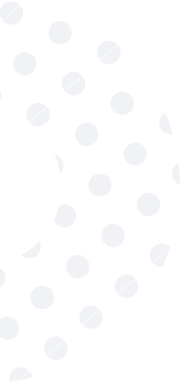
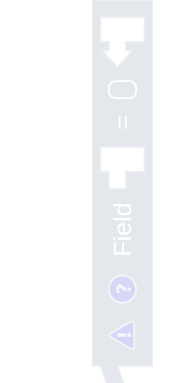
update index

Changed region(s): [[0.4972, 0.0, 0.8564, 1.0]]

diff --git a/index.html b/index.html
@@ -155,7 +155,7 @@
                             data-textAlign="['center','center','center','center']" data-paddingtop="[0,0,0,0]" data-paddingright="[0,0,0,0]"
                             data-paddingbottom="[0,0,0,0]" data-paddingleft="[0,0,0,0]"
                             style="z-index: 10; min-width: 556px; max-width: 556px; white-space: nowrap; font-size: 60px; line-height: 75px; font-weight: 300; letter-spacing: 0px;font-family: 'Montserrat', sans-serif;">
-                            Learn to program is a breeze.</div>
+                            MNL</div>
 
                         <!-- LAYER Text -->
                         <div class="tp-caption color-black" data-x="['center','center','center','center']" data-hoffset="['0','0','0','0']"
@@ -166,7 +166,7 @@
                             data-textAlign="['center','center','center','center']" data-paddingtop="[0,0,0,0]" data-paddingright="[0,0,0,0]"
                             data-paddingbottom="[0,0,0,0]" data-paddingleft="[0,0,0,0]"
                             style="z-index: 10; min-width: 556px; max-width: 556px; white-space: nowrap; font-weight: 700; letter-spacing: 0px;font-family: 'Montserrat', sans-serif;">
-                            <div id="js-rotating">Easy to Learn, Understandable, It's a Functional PL </div>
+                            <div id="js-rotating">Easy to Learn, Understandable, a Functional PL, Visual Language, Block-based </div>
                         </div>
 
                         <!-- LAYER Text -->
@@ -444,7 +444,8 @@
             <div class="row">
                 <div class="col-md-12">
                     <div class="main-title wow fadeIn" data-wow-delay="300ms">
-                        <h2>It is an <span class="color-soft-red">Easy-to-learn</span> and <span class="color-green">understandable</span>
+                        <h2>It is an <span class="color-soft-red">Easy-to-learn</span> and <span class="color-green">understandable
+                            </span><span class="color-yellow">block-based </span>
                             <span class="color-blue">functional
                                 programming language</span>.
                         </h2>
@@ -517,7 +518,6 @@
                         </div>
                     </div>
                 </div>
-                <div class="w-100 d-none d-lg-block d-xl-none"></div>
                 <div class="col-lg-6 col-xl-3 p-0 team-col2 mr-md-auto ml-md-0 mx-auto team-row2">
                     <div class="row">
                         <div class="col-md-12 order-md-0">
@@ -538,42 +538,48 @@
                     <div class="row">
                         <div class="col-md-12 order-md-0">
                             <div class="team-classic-content hvr-team2 soft-red">
-                                <h3 class="mb-3 text-capitalize color-soft-red">Typing Suggestion</h3>
-                                <h5 class="mb-3 text-capitalize color-black">Type system</h5>
-                                <p class="mt-3 mb-3 color-black">MNL will elegantly present a suggested term type in a color box,
-                                    thoughtfully aligned with its type constraints.</p>
+                                <h3 class="mb-3 text-capitalize color-soft-red">Beta Reduction</h3>
+                                <h5 class="mb-3 text-capitalize color-black">Program visualization</h5>
+                                <p class="mt-3 mb-3 color-black">Bringing beta reduction to life with a visual that highlights how
+                                    call-by-value and call-by-push-structure evaluation strategies unfold step by step.
+                                </p>
                                 <ul class="team-social">
-                                    <li class="d-inline-block"><a href="https://help.mnl-pl.org/type-suggestion.html" class="dark-bg-hvr"><i
+                                    <li class="d-inline-block"><a href="https://help.mnl-pl.org/program-visualization.html"
+                                            class="dark-bg-hvr"><i class="fa fa-arrow-right" aria-hidden="true"></i></a></li>
+                                </ul>
+                            </div>
+                        </div>
+                    </div>
+                </div>
+                <div class="w-100 d-none d-lg-block d-xl-none"></div>
+                <div class="col-lg-6 col-xl-3 p-0 team-col ml-md-auto mr-md-0 mx-auto team-row2">
+                    <div class="row">
+                        <div class="col-md-12 order-md-0">
+                            <div class="team-classic-content hvr-team green">
+                                <h3 class="mb-3 text-capitalize color-green">Type Inference</h3>
+                                <h5 class="mb-3 text-capitalize color-black">Type system</h5>
+                                <p class="mt-3 mb-3 color-black">Users do not need to declare the type explicitly! Let MNL do it for them
+                                    (implicit
+                                    typing).</p>
+                                <ul class="team-social">
+                                    <li class="d-inline-block"><a href="https://help.mnl-pl.org/type-inference.html" class="dark-bg-hvr"><i
                                                 class="fa fa-arrow-right" aria-hidden="true"></i></a></li>
                                 </ul>
                             </div>
                         </div>
                     </div>
                 </div>
-                <div class="col-lg-6 col-xl-3 p-0 team-col ml-md-auto mr-md-0 mx-auto team-row2">
-                    <div class="team-classic-content hvr-team green">
-                        <h3 class="mb-3 text-capitalize color-green">Type Inference</h3>
-                        <h5 class="mb-3 text-capitalize color-black">Type system</h5>
-                        <p class="mt-3 mb-3 color-black">Users do not need to declare the type explicitly! Let MNL do it for them (implicit
-                            typing).</p>
-                        <ul class="team-social">
-                            <li class="d-inline-block"><a href="https://help.mnl-pl.org/type-inference.html" class="dark-bg-hvr"><i
-                                        class="fa fa-arrow-right" aria-hidden="true"></i></a></li>
-                        </ul>
-                    </div>
-                </div>
                 <div class="col-lg-6 col-xl-3 p-0 team-col2 mr-md-auto ml-md-0 mx-auto team-row2">
                     <div class="row">
                         <div class="col-md-12 order-md-0">
                             <div class="team-classic-content hvr-team2 blue">
-                                <h3 class="mb-3 text-capitalize color-blue">Beta Reduction</h3>
-                                <h5 class="mb-3 text-capitalize color-black">Program visualization</h5>
-                                <p class="mt-3 mb-3 color-black">Present a visual representation of beta reduction for call-by-value or
-                                    call-by-push-structure evaluation strategies.
-                                </p>
+                                <h3 class="mb-3 text-capitalize color-blue">Typing Suggestion</h3>
+                                <h5 class="mb-3 text-capitalize color-black">Type system</h5>
+                                <p class="mt-3 mb-3 color-black">MNL will elegantly present a suggested term type in a color box,
+                                    thoughtfully aligned with its type constraints.</p>
                                 <ul class="team-social">
-                                    <li class="d-inline-block"><a href="https://help.mnl-pl.org/program-visualization.html"
-                                            class="dark-bg-hvr"><i class="fa fa-arrow-right" aria-hidden="true"></i></a></li>
+                                    <li class="d-inline-block"><a href="https://help.mnl-pl.org/type-suggestion.html" class="dark-bg-hvr"><i
+                                                class="fa fa-arrow-right" aria-hidden="true"></i></a></li>
                                 </ul>
                             </div>
                         </div>
@@ -613,7 +619,155 @@
             </div>
         </div>
     </section>
-    <!-- Team ends -->
+    <!-- Why MNL ends -->
+
+    <!-- Case Starts -->
+    <section id="case" class="pb-0">
+        <div class="container-fluid">
+            <div class="row">
+                <div class="col-md-12">
+                    <div class="main-title wow fadeIn" data-wow-delay="300ms">
+                        <h5> case study </h5>
+                        <h2 class="mb-0">In<span class="color-blue"> Action</span> </h2>
+                    </div>
+                </div>
+            </div>
+            <div class="row d-block">
+
+                <div id="js-filters-mosaic-flat" class="cbp-l-filters-alignCenter">
+                    <div data-filter="*" class="cbp-filter-item-active cbp-filter-item cbp-filter-style">
+                        All <div class="cbp-filter-counter"></div>
+                    </div>
+                    <div data-filter=".program-visualization" class="cbp-filter-item cbp-filter-style">
+                        Program Visualization <div class="cbp-filter-counter"></div>
+                    </div>
+                    <div data-filter=".compiler" class="cbp-filter-item cbp-filter-style">
+                        Compiler <div class="cbp-filter-counter"></div>
+                    </div>
+                    <div data-filter=".hof" class="cbp-filter-item cbp-filter-style">
+                        HoF <div class="cbp-filter-counter"></div>
+                    </div>
+                    <div data-filter=".first-class-function" class="cbp-filter-item">
+                        FcF <div class="cbp-filter-counter"></div>
+                    </div>
+                </div>
+
+                <div id="js-grid-mosaic-flat" class="cbp cbp-l-grid-mosaic-flat no-transition">
+                    <div class="cbp-item web-designs first-class-function">
+                        <a href="assets/img/case-factorial.jpg" class="cbp-caption cbp-lightbox" data-title="Factorial">
+                            <div class="cbp-caption-defaultWrap">
+                                <img src="assets/img/case-factorial.jpg" alt="work">
+                            </div>
+                            <div class="cbp-caption-activeWrap">
+                                <div class="cbp-l-caption-alignCenter">
+                                    <div class="cbp-l-caption-body">
+                                        <p>First class Function</p>
+                                        <div class="cbp-l-caption-title">Factorial</div>
+                                        <span class="work-icon">
+                                            <i class="fa fa-arrow-right"></i>
+                                        </span>
+                                    </div>
+                                </div>
+                            </div>
+                        </a>
+                    </div>
+                    <div class="cbp-item program-visualization">
+                        <a href="assets/img/case-eval-cbv-large.png" class="cbp-caption cbp-lightbox" data-title="Call-by-Value">
+                            <div class="cbp-caption-defaultWrap">
+                                <img src="assets/img/case-eval-cbv.jpg" alt="work">
+                            </div>
+                            <div class="cbp-caption-activeWrap">
+                                <div class="cbp-l-caption-alignCenter">
+                                    <div class="cbp-l-caption-body">
+                                        <p>Program Visualization</p>
+                                        <div class="cbp-l-caption-title">Call-by-Value</div>
+                                        <span class="work-icon">
+                                            <i class="fa fa-arrow-right"></i>
+                                        </span>
+                                    </div>
+                                </div>
+                            </div>
+                        </a>
+                    </div>
+                    <div class="cbp-item program-visualization">
+                        <a href="assets/img/case-eval-pbs-large.png" class="cbp-caption cbp-lightbox" data-title="Call-by-Push-Structure">
+                            <div class="cbp-caption-defaultWrap">
+                                <img src="assets/img/case-eval-pbs.jpg" alt="work">
+                            </div>
+                            <div class="cbp-caption-activeWrap">
+                                <div class="cbp-l-caption-alignCenter">
+                                    <div class="cbp-l-caption-body">
+                                        <p>Program Visualization</p>
+                                        <div class="cbp-l-caption-title">Call-by-Push-Structure</div>
+                                        <span class="work-icon">
+                                            <i class="fa fa-arrow-right"></i>
+                                        </span>
+                                    </div>
+                                </div>
+                            </div>
+                        </a>
+                    </div>
+                    <div class="cbp-item seo compiler">
+                        <a href="assets/img/case-type-derivation-large.jpg" class="cbp-caption cbp-lightbox" data-title="Typing Derivation">
+                            <div class="cbp-caption-defaultWrap">
+                                <img src="assets/img/case-type-derivation.jpg" alt="work">
+                            </div>
+                            <div class="cbp-caption-activeWrap">
+                                <div class="cbp-l-caption-alignCenter">
+                                    <div class="cbp-l-caption-body">
+                                        <p>Compiler</p>
+                                        <div class="cbp-l-caption-title">Typing Derivation</div>
+                                        <span class="work-icon">
+                                            <i class="fa fa-arrow-right"></i>
+                                        </span>
+                                    </div>
+                                </div>
+                            </div>
+                        </a>
+                    </div>
+
+                    <div class="cbp-item hof">
+                        <a href="assets/img/case-fmap-large.jpg" class="cbp-caption cbp-lightbox" data-title="FMap">
+                            <div class="cbp-caption-defaultWrap">
+                                <img src="assets/img/case-fmap.jpg" alt="work">
+                            </div>
+                            <div class="cbp-caption-activeWrap">
+                                <div class="cbp-l-caption-alignCenter">
+                                    <div class="cbp-l-caption-body">
+                                        <p>Higher order Function</p>
+                                        <div class="cbp-l-caption-title">FMap</div>
+                                        <span class="work-icon">
+                                            <i class="fa fa-arrow-right"></i>
+                                        </span>
+                                    </div>
+                                </div>
+                            </div>
+                        </a>
+                    </div>
+                    <div class="cbp-item hof">
+                        <a href="assets/img/case-list-filter-large.jpg" class="cbp-caption cbp-lightbox" data-title="List Filter">
+                            <div class="cbp-caption-defaultWrap">
+                                <img src="assets/img/case-list-filter.jpg" alt="work">
+                            </div>
+                            <div class="cbp-caption-activeWrap">
+                                <div class="cbp-l-caption-alignCenter">
+                                    <div class="cbp-l-caption-body">
+                                        <p>Higher order Function</p>
+                                        <div class="cbp-l-caption-title">List Filter</div>
+                                        <span class="work-icon">
+                                            <i class="fa fa-arrow-right"></i>
+                                        </span>
+                                    </div>
+                                </div>
+                            </div>
+                        </a>
+                    </div>
+
+                </div>
+            </div>
+        </div>
+    </section>
+    <!-- Case ends -->
 
     <!-- Quote start -->
     <section class="parallax-setting parallaxie parallax1">
